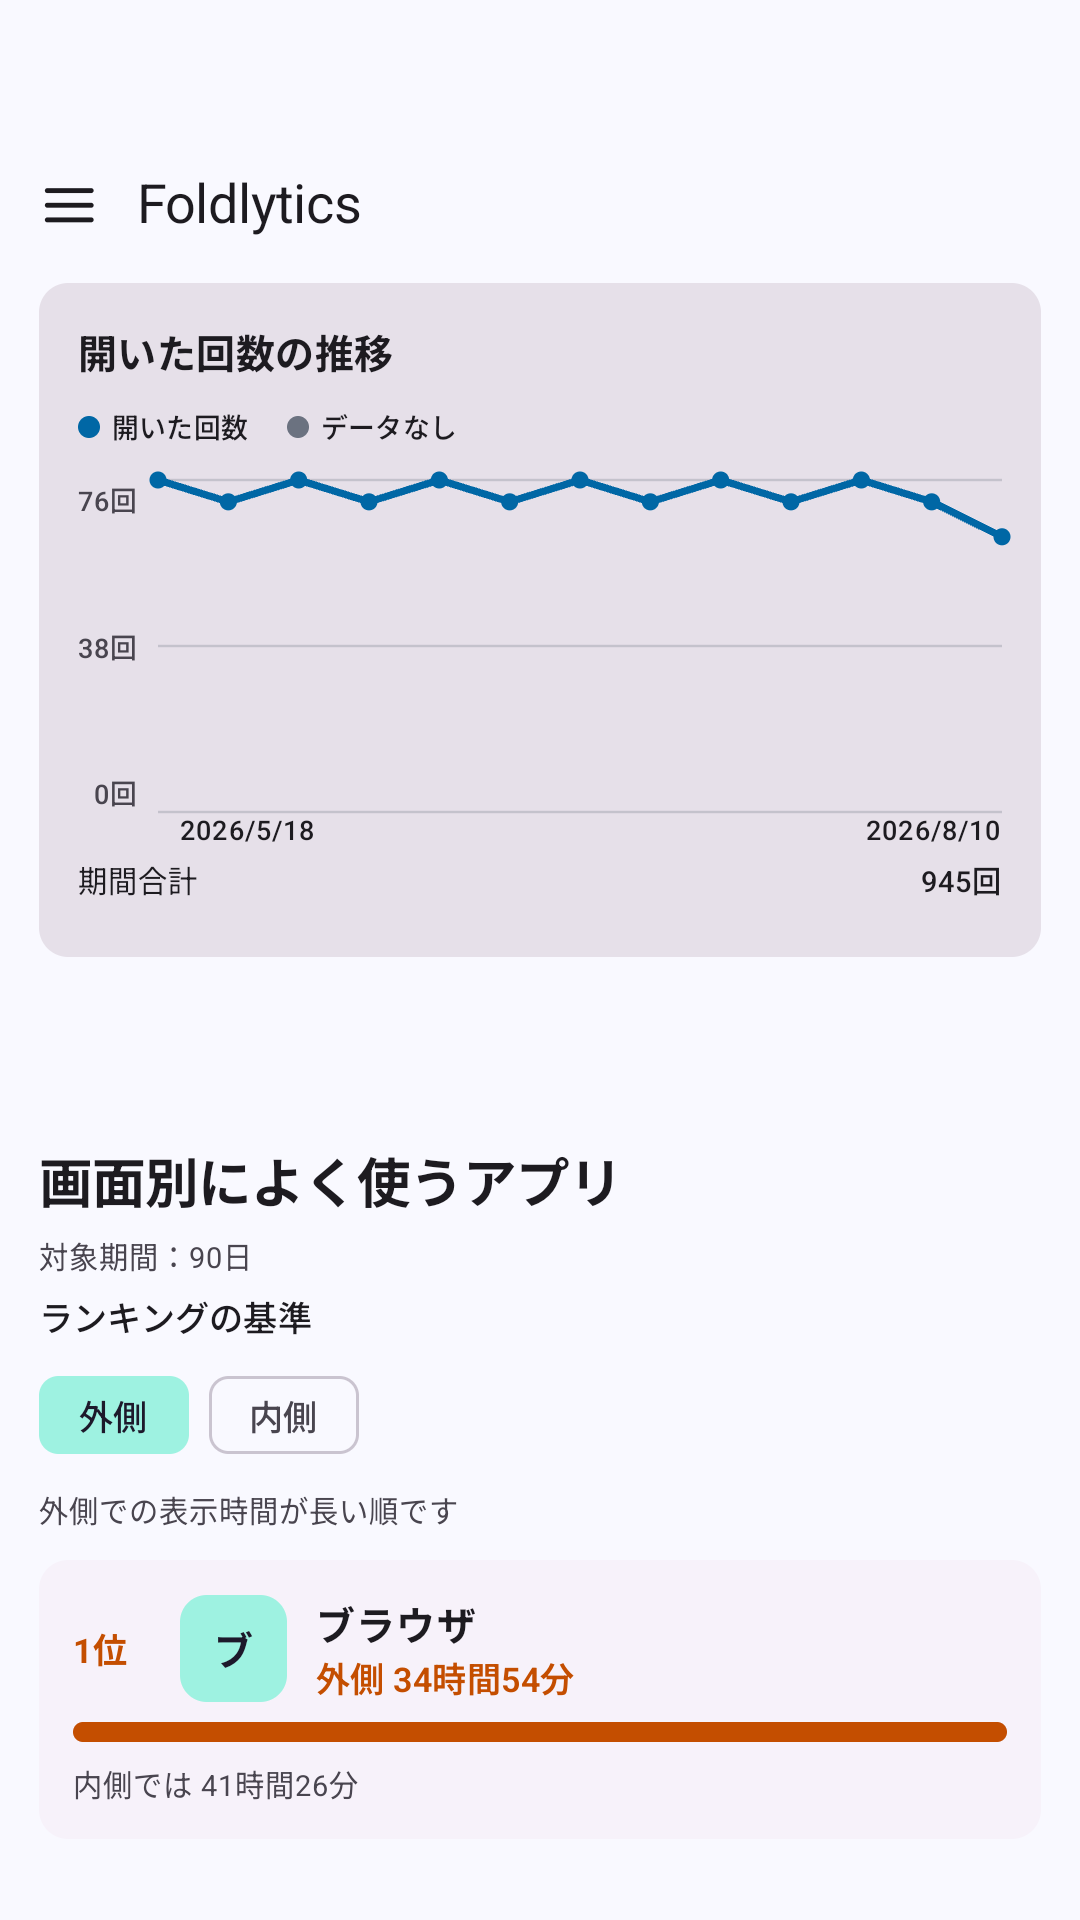
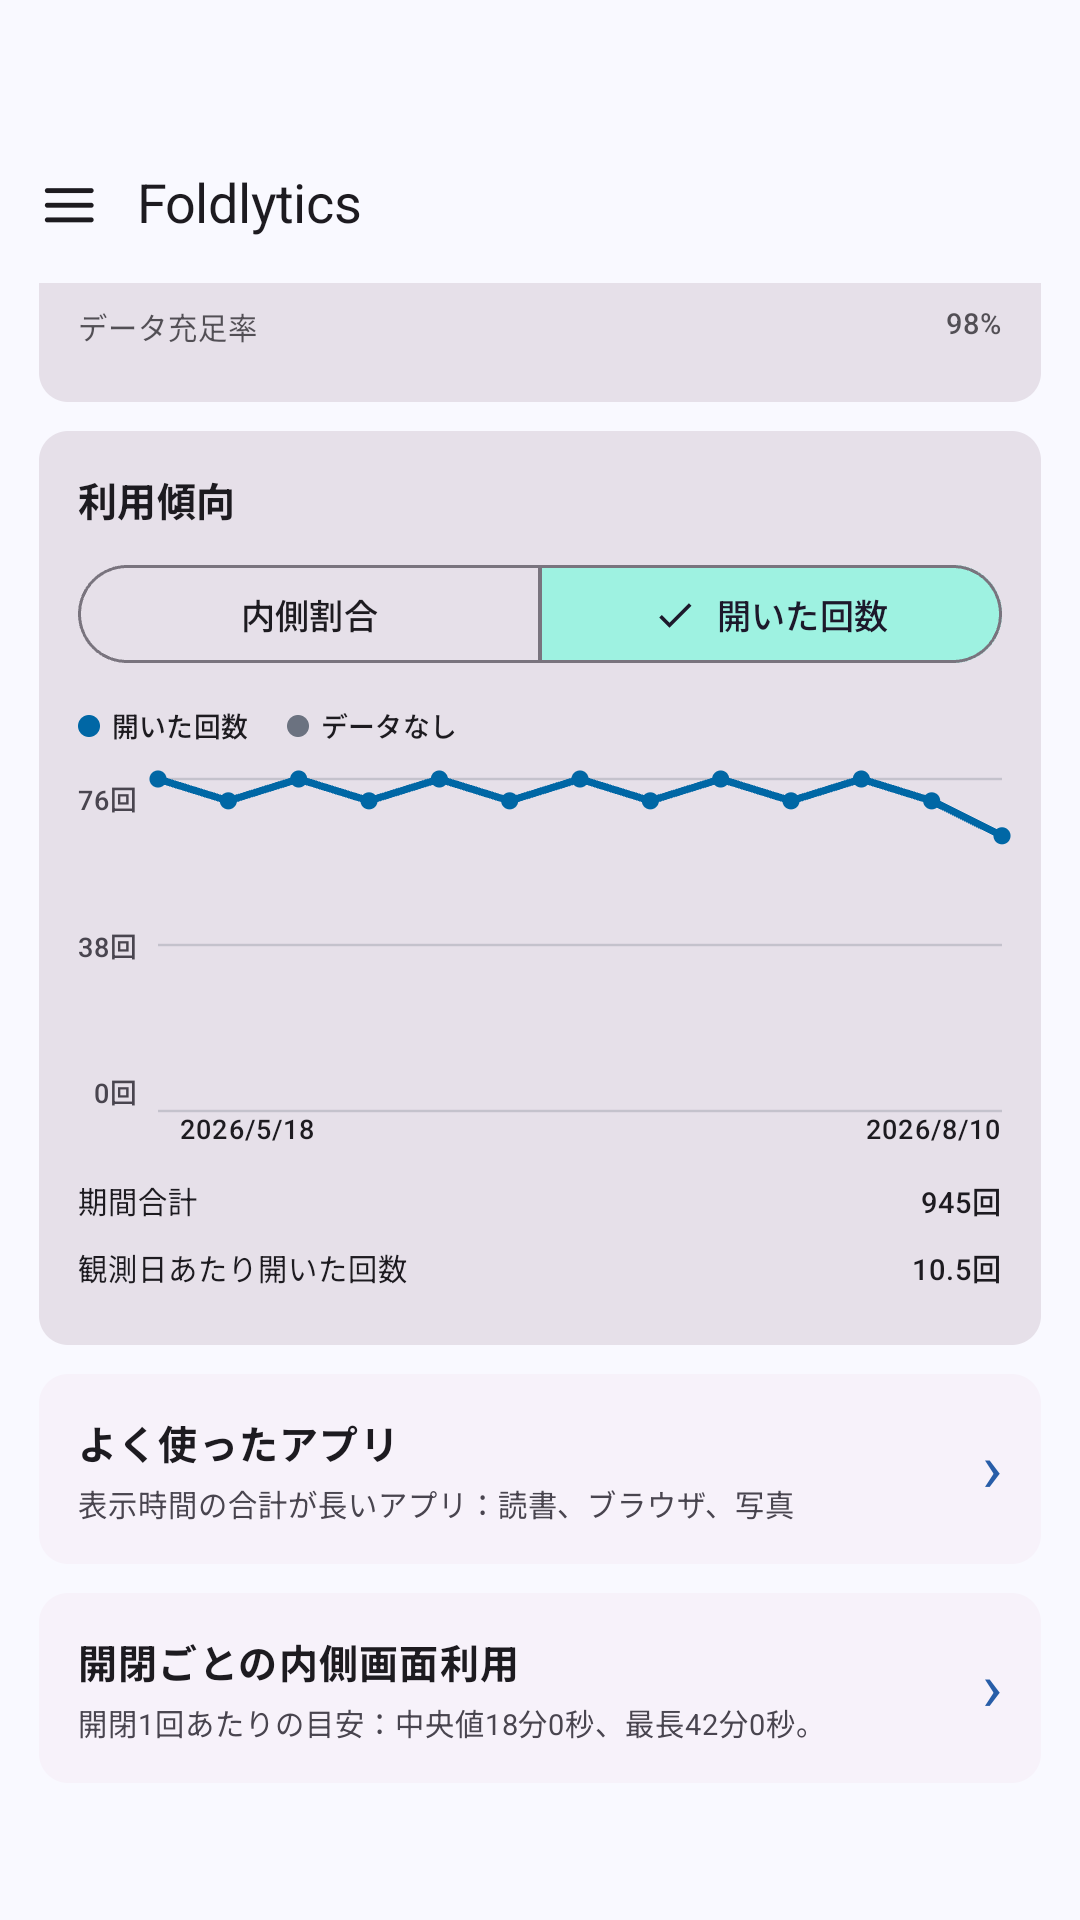
Refresh store screenshots for new UI

diff --git a/app/src/androidTest/java/com/nagopy/android/foldlytics/ui/StoreScreenshotCaptureTest.kt b/app/src/androidTest/java/com/nagopy/android/foldlytics/ui/StoreScreenshotCaptureTest.kt
@@ -1,8 +1,11 @@
 package com.nagopy.android.foldlytics.ui
 
+import android.content.ContentValues
 import android.content.Context
 import android.content.res.Configuration
 import android.graphics.Bitmap
+import android.os.Environment
+import android.provider.MediaStore
 import androidx.compose.runtime.CompositionLocalProvider
 import androidx.compose.ui.graphics.asAndroidBitmap
 import androidx.compose.ui.platform.LocalConfiguration
@@ -15,6 +18,7 @@ import androidx.compose.ui.test.onNodeWithContentDescription
 import androidx.compose.ui.test.onNodeWithTag
 import androidx.compose.ui.test.onRoot
 import androidx.compose.ui.test.performClick
+import androidx.compose.ui.test.performScrollToIndex
 import androidx.compose.ui.test.performScrollToNode
 import androidx.test.platform.app.InstrumentationRegistry
 import com.nagopy.android.foldlytics.MainUiState
@@ -29,8 +33,6 @@ import com.nagopy.android.foldlytics.model.InnerSessionDetail
 import com.nagopy.android.foldlytics.model.InnerSessionSummary
 import com.nagopy.android.foldlytics.model.LongTermPeriod
 import com.nagopy.android.foldlytics.model.PeriodUsageSummary
-import java.io.File
-import java.io.FileOutputStream
 import java.time.DayOfWeek
 import java.time.LocalDate
 import java.time.ZoneId
@@ -106,6 +108,7 @@ class StoreScreenshotCaptureTest {
         state: MainUiState,
         outputDirectory: String,
     ) {
+        clearOutputDirectory(outputDirectory)
         composeRule.setContent {
             CompositionLocalProvider(
                 LocalContext provides context,
@@ -141,10 +144,11 @@ class StoreScreenshotCaptureTest {
         capture("02-session-details", outputDirectory)
 
         composeRule.onNodeWithTag(DETAIL_BACK_BUTTON_TAG).performClick()
-        scrollTo(USAGE_TREND_CARD_TAG)
+        scrollToHomeItem(HOME_USAGE_TREND_ITEM_INDEX)
         capture("03-inner-ratio-trend", outputDirectory)
 
         composeRule.onNodeWithTag(USAGE_TREND_OPEN_COUNT_TAG).performClick()
+        scrollToHomeItem(HOME_USAGE_TREND_ITEM_INDEX)
         capture("04-open-count-trend", outputDirectory)
 
         scrollTo(HOME_APP_USAGE_LINK_TAG)
@@ -164,6 +168,13 @@ class StoreScreenshotCaptureTest {
 
     private fun scrollTo(tag: String) {
         composeRule.onNode(hasScrollAction()).performScrollToNode(hasTestTag(tag))
+    }
+
+    private fun scrollToHomeItem(index: Int) {
+        scrollTo(HOME_INNER_SESSIONS_LINK_TAG)
+        val scrollable = composeRule.onNode(hasScrollAction())
+        scrollable.performScrollToIndex(index - 1)
+        scrollable.performScrollToIndex(index)
     }
 
     private fun representativeState(appLabels: AppLabels): MainUiState {
@@ -250,8 +261,6 @@ class StoreScreenshotCaptureTest {
         labels: AppLabels,
     ): List<AppUsage> = listOf(
         app("demo.browser", labels.browser, coverMillis, 24, innerMillis, 16),
-        app("demo.messages", labels.messages, coverMillis, 21, innerMillis, 8),
-        app("demo.maps", labels.maps, coverMillis, 14, innerMillis, 4),
         app("demo.photos", labels.photos, coverMillis, 11, innerMillis, 14),
         app("demo.reader", labels.reading, coverMillis, 7, innerMillis, 27),
     )
@@ -353,24 +362,57 @@ class StoreScreenshotCaptureTest {
 
     private fun capture(name: String, outputDirectory: String) {
         composeRule.waitForIdle()
-        val directory = File(
-            checkNotNull(targetContext.getExternalFilesDir(null)),
-            outputDirectory,
-        )
-        check(directory.exists() || directory.mkdirs()) {
-            "Could not create screenshot output directory: $directory"
+        val resolver = targetContext.contentResolver
+        val relativePath = relativeOutputPath(outputDirectory)
+        val values = ContentValues().apply {
+            put(MediaStore.MediaColumns.DISPLAY_NAME, "$name.png")
+            put(MediaStore.MediaColumns.MIME_TYPE, "image/png")
+            put(MediaStore.MediaColumns.RELATIVE_PATH, relativePath)
+            put(MediaStore.MediaColumns.IS_PENDING, 1)
         }
-        val output = File(directory, "$name.png")
-        FileOutputStream(output).use { stream ->
+        val outputUri = checkNotNull(
+            resolver.insert(MediaStore.Downloads.EXTERNAL_CONTENT_URI, values),
+        ) {
+            "Could not create screenshot media entry: $relativePath/$name.png"
+        }
+        try {
+            val stream = checkNotNull(resolver.openOutputStream(outputUri)) {
+                "Could not open screenshot output: $relativePath/$name.png"
+            }
+            stream.use { output ->
+                check(
+                    composeRule.onRoot()
+                        .captureToImage()
+                        .asAndroidBitmap()
+                        .compress(Bitmap.CompressFormat.PNG, 100, output),
+                ) { "Could not write screenshot: $relativePath/$name.png" }
+            }
             check(
-                composeRule.onRoot()
-                    .captureToImage()
-                    .asAndroidBitmap()
-                    .compress(Bitmap.CompressFormat.PNG, 100, stream),
-            ) { "Could not write screenshot: $output" }
+                resolver.update(
+                    outputUri,
+                    ContentValues().apply {
+                        put(MediaStore.MediaColumns.IS_PENDING, 0)
+                    },
+                    null,
+                    null,
+                ) == 1,
+            ) { "Could not publish screenshot: $relativePath/$name.png" }
+        } catch (error: Throwable) {
+            resolver.delete(outputUri, null, null)
+            throw error
         }
-        check(output.length() > 0L) { "Screenshot is empty: $output" }
     }
+
+    private fun clearOutputDirectory(outputDirectory: String) {
+        targetContext.contentResolver.delete(
+            MediaStore.Downloads.EXTERNAL_CONTENT_URI,
+            "${MediaStore.MediaColumns.RELATIVE_PATH} = ?",
+            arrayOf(relativeOutputPath(outputDirectory)),
+        )
+    }
+
+    private fun relativeOutputPath(outputDirectory: String): String =
+        "${Environment.DIRECTORY_DOWNLOADS}/Foldlytics/$outputDirectory/"
 
     private fun minutes(value: Long): Long = value * 60_000L
 
@@ -385,6 +427,7 @@ class StoreScreenshotCaptureTest {
     companion object {
         private const val RECORD_DAY_COUNT = 365L
         private const val TREND_DAY_COUNT = 90L
+        private const val HOME_USAGE_TREND_ITEM_INDEX = 3
         private const val JAPANESE_OUTPUT_DIRECTORY = "store-screenshots"
         private const val ENGLISH_OUTPUT_DIRECTORY = "store-screenshots-en"
     }

diff --git a/store-assets/google-play/README.md b/store-assets/google-play/README.md
@@ -57,7 +57,7 @@ least four portrait app screenshots at 1080 px or higher. The added headline are
 - 02: `The opening-to-closing inner-display use card showing median, average, longest time, and app breakdowns for the three longest uses.`
 - 03: `A Foldlytics line chart showing inner-display share across a 90-day period.`
 - 04: `The detected-open trend chart with a total of 945 and no app ranking on the home screen.`
-- 05: `The inner-display app usage detail led by Reading, Browser, Photos, and Messages.`
+- 05: `The inner-display app usage detail led by Reading, Browser, and Photos.`
 - 06: `The Foldlytics drawer with CSV export, diagnostic sharing, Usage Access settings, privacy policy, and an on-device data notice.`
 
 ## Representative data
@@ -85,33 +85,24 @@ trend buckets, open counts, and rankings agree with one another.
 1. Start the foldable API 36 test emulator in its opened state and set the display to 1080 x 1920.
    The Compose test host requires the active display; the capture fixture does not use device usage
    history or hinge readings.
-2. Build and install `app-debug.apk` and `app-debug-androidTest.apk`.
+2. From the repository root, run the capture helper:
 
    ```shell
-   ./gradlew --no-daemon installDebug installDebugAndroidTest
+   ./store-assets/google-play/capture-store-screenshots.sh
    ```
 
-3. Run:
+   The helper refuses physical or unknown devices, verifies the named API 36 emulator and
+   `ro.kernel.qemu=1`, sets `OPENED` and 1080 x 1920, then runs the Gradle connected test. The
+   fixture writes PNGs to its dedicated shared Downloads directories so the host can pull all
+   twelve files after the test and before any unrelated cleanup. Each file is checked as a PNG at
+   1080 x 1920, copied into `raw-ja/` or `raw-en/` using the existing raw names, and passed to
+   `generate-phone-screenshots.sh` for the upload-ready images and contact sheets. The helper
+   removes only its fixture directories from the test emulator when it exits.
 
-   ```shell
-   ./gradlew --no-daemon :app:connectedDebugAndroidTest \
-     -Pandroid.testInstrumentationRunnerArguments.class=com.nagopy.android.foldlytics.ui.StoreScreenshotCaptureTest
-   ```
-
-   Use the Gradle connected-test command because direct `am instrument` does not initialize the
+   Use this Gradle connected-test helper because direct `am instrument` does not initialize the
    Compose UI test v2 host used by this fixture.
 
-4. Pull the Japanese and English PNG files from:
-
-   ```text
-   /sdcard/Android/data/com.nagopy.android.foldlytics.debug/files/store-screenshots/
-   /sdcard/Android/data/com.nagopy.android.foldlytics.debug/files/store-screenshots-en/
-   ```
-
-   into `raw-ja/` and `raw-en/`, respectively.
-5. Run `./generate-phone-screenshots.sh` to generate the six upload-ready images and both
-   localized review contact sheets. Set `FOLDLYTICS_STORE_FONT` when the default macOS Hiragino
-   font is unavailable.
+3. Set `FOLDLYTICS_STORE_FONT` when the default macOS Hiragino font is unavailable.
 
 The script accepts the new capture names (`01-home-summary.png` through `06-drawer.png`) and
 temporarily falls back to the checked-in legacy raw names until fresh emulator captures are
